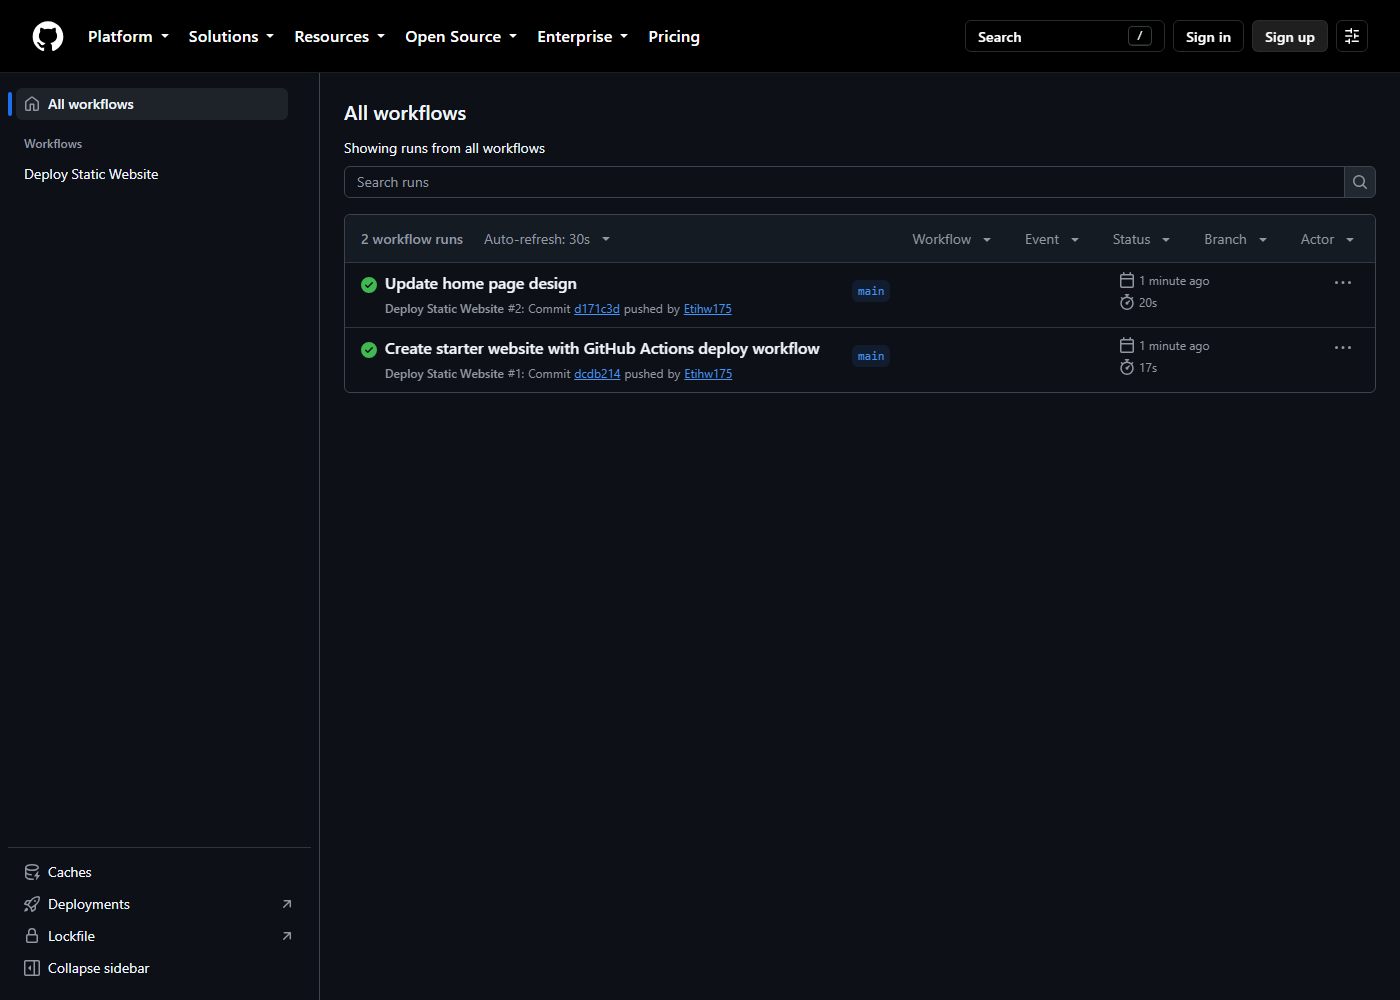
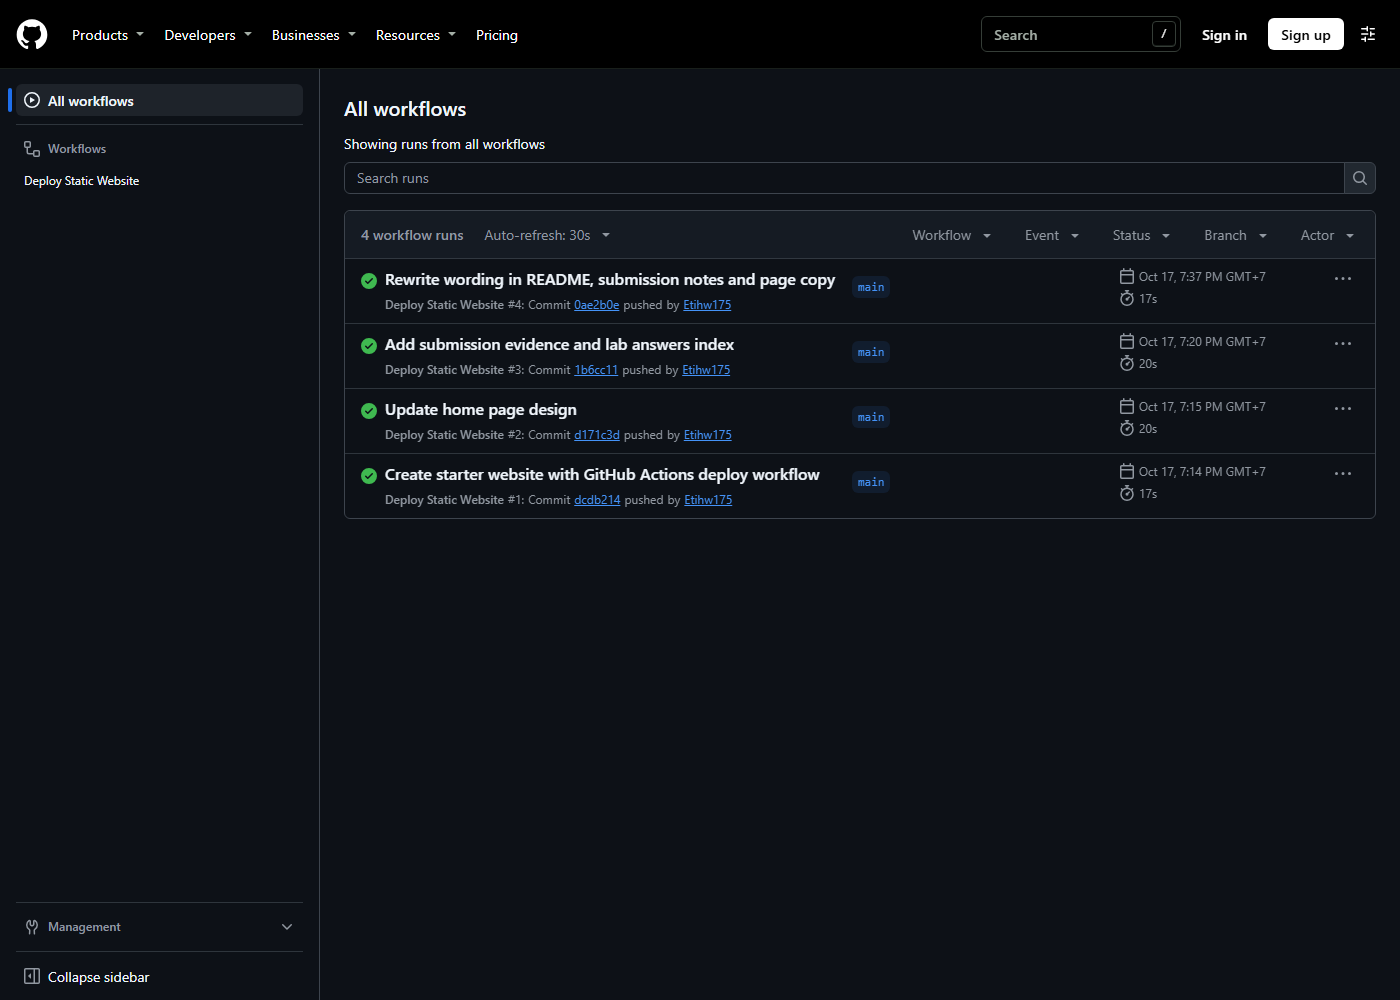
Refresh evidence screenshots and run log
Retook both screenshots after the wording update so the images match the
live site, and listed all four workflow runs in the submission notes.

diff --git a/SUBMISSION.md b/SUBMISSION.md
@@ -26,13 +26,16 @@
 
 ## บันทึกการรัน
 
-| Run | Commit | สถานะ | เวลา |
-|---|---|---|---|
-| #1 Create starter website | `dcdb214` | สำเร็จ | 17 วินาที |
-| #2 Update home page design | `d171c3d` | สำเร็จ | 20 วินาที |
+| Run | Commit | งาน | สถานะ | เวลา |
+|---|---|---|---|---|
+| #1 | `dcdb214` | สร้างเว็บตั้งต้นพร้อม workflow | สำเร็จ | 17 วินาที |
+| #2 | `d171c3d` | แก้หัวข้อและสีปุ่มตาม Part D | สำเร็จ | 20 วินาที |
+| #3 | `1b6cc11` | เพิ่มหลักฐานและคำตอบท้ายแลป | สำเร็จ | 20 วินาที |
+| #4 | `0ae2b0e` | ปรับสำนวนใน README และหน้าเว็บ | สำเร็จ | 17 วินาที |
 
-หลัง deploy รอบที่สอง เว็บตอบ HTTP 200 หัวข้อเปลี่ยนเป็น "Deployed by GitHub Actions"
-และไฟล์ `style.css` บนเซิร์ฟเวอร์เป็นสีใหม่ `#0f7a5a` ตามที่แก้ไว้
+ทุก run ขึ้นสีเขียว ไม่มีครั้งไหนล้ม ภาพในแฟ้ม `evidence/02-actions.png` ถ่ายหลัง run #4
+หลัง deploy เว็บตอบ HTTP 200 หัวข้อเป็น "Deployed by GitHub Actions"
+และ `style.css` บนเซิร์ฟเวอร์ใช้สี `#0f7a5a` ตามที่แก้ไว้ใน Part D
 
 ## หมายเหตุเรื่องเวอร์ชันของ action
 
